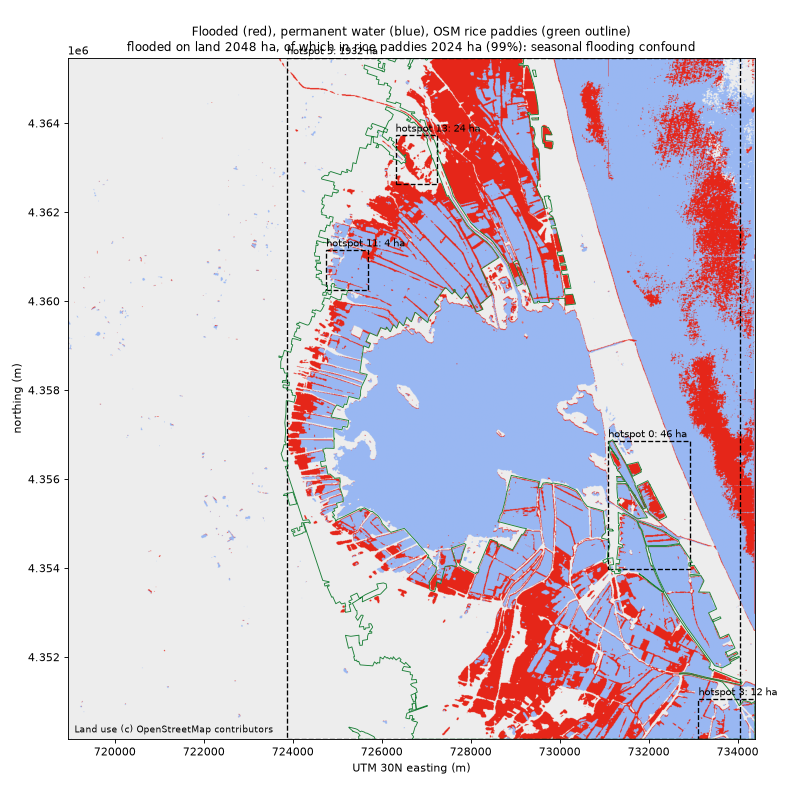
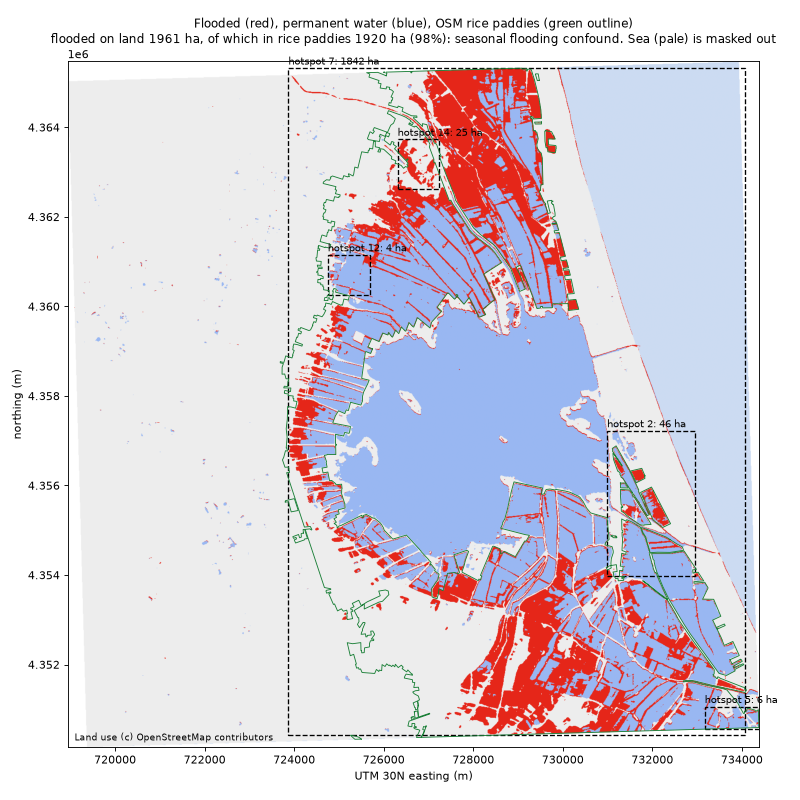
GEO.md: day-12 damage shows as vegetation loss in the Poyo towns; AOI misses towns to the north

diff --git a/docs/GEO.md b/docs/GEO.md
@@ -3,7 +3,7 @@
 ```bash
 docker compose up -d                                   # local PostGIS (password in .env)
 uv run impactlens infer --quicklook docs/images/valencia_quicklook.png
-uv run impactlens rollup --map docs/images/valencia_rollup.png
+uv run impactlens rollup --map docs/images/valencia_rollup.png --ndvi-map docs/images/valencia_ndvi_drop.png
 ```
 
 Outputs (gitignored, under `data/processed/valencia_albufera/`):
@@ -22,32 +22,81 @@ Outputs (gitignored, under `data/processed/valencia_albufera/`):
    is `permanent_water`, not flooded. Confidence = P(water after) x P(not water before).
 3. **NDVI drop**: NDVI before - after > 0.2 where NDVI before > 0.3 (it was vegetated).
 4. **Polygonize** (`geo/polygonize.py`): connected regions (8-neighbour), >= 4 px, with mean
-   confidence. **OSM land use** via Overpass (`geo/osm.py`), cached in `data/raw/osm/`.
+   confidence. **OSM** via Overpass (`geo/osm.py`), cached in `data/raw/osm/`: land use,
+   municipalities (admin_level 8) and the coastline. **Land mask**: the AOI is cut along the
+   OSM `natural=coastline` ways (OSM draws them with land on the left); the sea side enters no
+   total. Cross-check: 99.6% of that sea is MNDWI water on the before date.
 5. **Spatial SQL** (`geo/sql/rollup.sql`, all in EPSG:32630 metres):
    - exclusive land cover per type (OSM polygons overlap; priority rice_paddy > water >
-     residential > industrial > orchard > farmland > wetland > other; rest = `unmapped`, incl. sea)
+     residential > industrial > orchard > farmland > wetland > other; rest of the land =
+     `unmapped`, mostly huerta fields OSM has not tagged; the sea is its own excluded class)
    - hectares per plot and per type for flooded / changed / NDVI drop
    - severity per plot = flooded fraction x mean confidence: high >= 0.30, medium >= 0.10, low > 0
    - hotspots: `ST_ClusterDBSCAN` (eps 100 m, minpoints 3) over flooded polygons on land
+   - per municipality and class: hectares of each impact kind (`town_cover`, `town_impact`)
+6. **Impacts split three ways** in `summary.json` -> `impacts`: `standing_water`
+   (paddy-confounded), `vegetation_loss_likely_mud` (NDVI drop outside paddies, with a per-town
+   rate = drop / vegetated land outside paddies), `urban_change` (OSCD change on residential +
+   industrial land only). Sea numbers live under `excluded`, never in a total.
 
 ## Valencia results (before 2024-10-26, after 2024-11-10)
 
-| | hectares |
-|---|---|
-| Flooded on land | 2,048 |
-| of which in OSM rice paddies | 2,024 (98.9%) |
-| Flooded on land outside rice paddies | 23 |
-| Flooded in `unmapped` (mostly open sea, see below) | 736 |
-| Changed (OSCD model) on land | 2,024 |
-| NDVI drop on land | 633 |
+AOI 22,327 ha: 16,747 ha land, 2,656 ha inland water (Albufera lake, canals), 2,923 ha sea.
+
+| impact (on land) | hectares | what it means |
+|---|---|---|
+| Standing water (new water) | 1,961 | 98% of it (1,920 ha) is in rice paddies: confounded, see below |
+| ...outside rice paddies | 41 | |
+| Vegetation loss / likely mud (NDVI drop outside paddies) | 320 | candidate damage footprint |
+| NDVI drop inside paddies (not counted above) | 506 | harvest / paddy flooding, ambiguous |
+| Change on urban land (OSCD model) | 60 | 44 ha industrial, 15 ha residential |
+| *Excluded: sea "flooded"* | *655* | *model domain gap on the before date; never in a total* |
+
+**Day 12 is too late for water.** The DANA hit on Oct 29. By Nov 10 the standing water in the
+towns west of the lake had drained and left mud, so a water detector correctly finds almost
+nothing there (41 ha outside paddies). The remaining new water is in the paddies.
+
+**The damage shows up as vegetation loss on the Barranco del Poyo towns.** NDVI drop as a share
+of each town's vegetated land outside the paddies (towns with >= 50 ha vegetated):
+
+| town | vegetated ha (outside paddies) | NDVI drop ha | rate |
+|---|---|---|---|
+| Massanassa | 87 | 26 | **29%** |
+| Beniparrell | 188 | 30 | **16%** |
+| Catarroja | 313 | 49 | **16%** |
+| Albal | 344 | 36 | **10%** |
+| Alcàsser | 490 | 27 | 5.5% |
+| València (southern part) | 1,241 | 57 | 4.6% |
+| Almussafes | 395 | 12 | 3.0% |
+| Silla | 934 | 23 | 2.5% |
+| Benifaió | 675 | 17 | 2.5% |
+| Sollana | 528 | 12 | 2.2% |
+| Picassent | 1,177 | 22 | 1.9% |
+
+The four towns on the Poyo's path to the lake lose vegetation at 10-29%. Similar huerta towns to
+the south and west sit at 2-3%, five to ten times lower. On the map the orange is concentrated in
+the north of the AOI and in strips running toward the lake. This is consistent with mud
+deposits and flattened vegetation, but NDVI alone can't prove it: harvest, ploughing and pruning
+also drop NDVI, and mud on streets and roofs is invisible here because that ground was not
+vegetated before. Most of the drop (211 of 320 ha) is on land OSM has no land-use tag for, so
+the per-class split is weaker than the per-town one.
+
+![NDVI drop by town](images/valencia_ndvi_drop.png)
+
+**The AOI misses the worst-hit towns.** The AOI's north edge is 39.407 N. Only Albal and the
+southern part of Catarroja's centre are inside. Paiporta (39.428 N), Picanya (39.435), Massanassa
+(39.411), Alfafar (39.420), Benetússer (39.423) and Sedaví (39.425) are all north of it; their
+municipal land inside the AOI is mostly paddy and lake shore. They lie north, not west: the west
+edge (-0.457) already covers them in longitude. Extending the north edge to about 39.44 N
+(+3.7 km) would bring all of them in.
 
 **Known confound: rice paddies.** Albufera paddies are flooded on purpose in late autumn and
-winter. 40.8% of paddy area was already water on Oct 26 (three days BEFORE the Oct 29 DANA) and
-69.8% on Nov 10. The DANA floodwater also drained into the Albufera through l'Horta Sud, so the
+winter. 41.0% of paddy area was already water on Oct 26 (three days BEFORE the Oct 29 DANA) and
+69.9% on Nov 10. The DANA floodwater also drained into the Albufera through l'Horta Sud, so the
 extra paddy water can be either cause, and two optical dates cannot tell them apart. That is why
 the paddies are a flagged confound rather than counted as damage or as farming.
 The paddies are reported separately (`rice_paddies` in the summary, `seasonal_flooding_flag` per
-plot), never dropped. The OSCD change model also fires on the paddies (1,941 ha of its change), as
+plot), never dropped. The OSCD change model also fires on the paddies (1,892 ha of its change), as
 expected for a model trained on urban change: flooding a field is a big visual change.
 
 **Sanity check (model vs water indices on Valencia, IoU of the water masks):**
@@ -59,9 +108,9 @@ expected for a model trained on urban change: flooding a field is a big visual c
 
 Agreement is high, so the L1C-train / L2A-inference gap does not break the model overall. It does
 show up in one place: part of the **open sea on Oct 26** gets P(water) ~0.37 from the model while
-MNDWI there is 0.74 (clearly water). That sea strip then looks "flooded" on Nov 10. It falls in
-`unmapped` (no OSM land use), is reported apart from the land totals, and is excluded from the
-hotspot search, which only runs on land.
+MNDWI there is 0.74 (clearly water). That sea strip then looks "flooded" on Nov 10 (655 ha).
+The OSM coastline mask puts it in the `sea` class, so it enters no total and no hotspot; it is
+kept under `excluded` in the summary as a diagnostic.
 
 ![rollup](images/valencia_rollup.png)
 

diff --git a/CLAUDE.md b/CLAUDE.md
@@ -54,5 +54,5 @@ uv run ruff check .     # lint
 uv run ruff format .    # format
 docker compose up -d    # local PostGIS for Phase 4 (password in .env)
 uv run impactlens infer --quicklook docs/images/valencia_quicklook.png
-uv run impactlens rollup --map docs/images/valencia_rollup.png
+uv run impactlens rollup --map docs/images/valencia_rollup.png --ndvi-map docs/images/valencia_ndvi_drop.png
 ```
